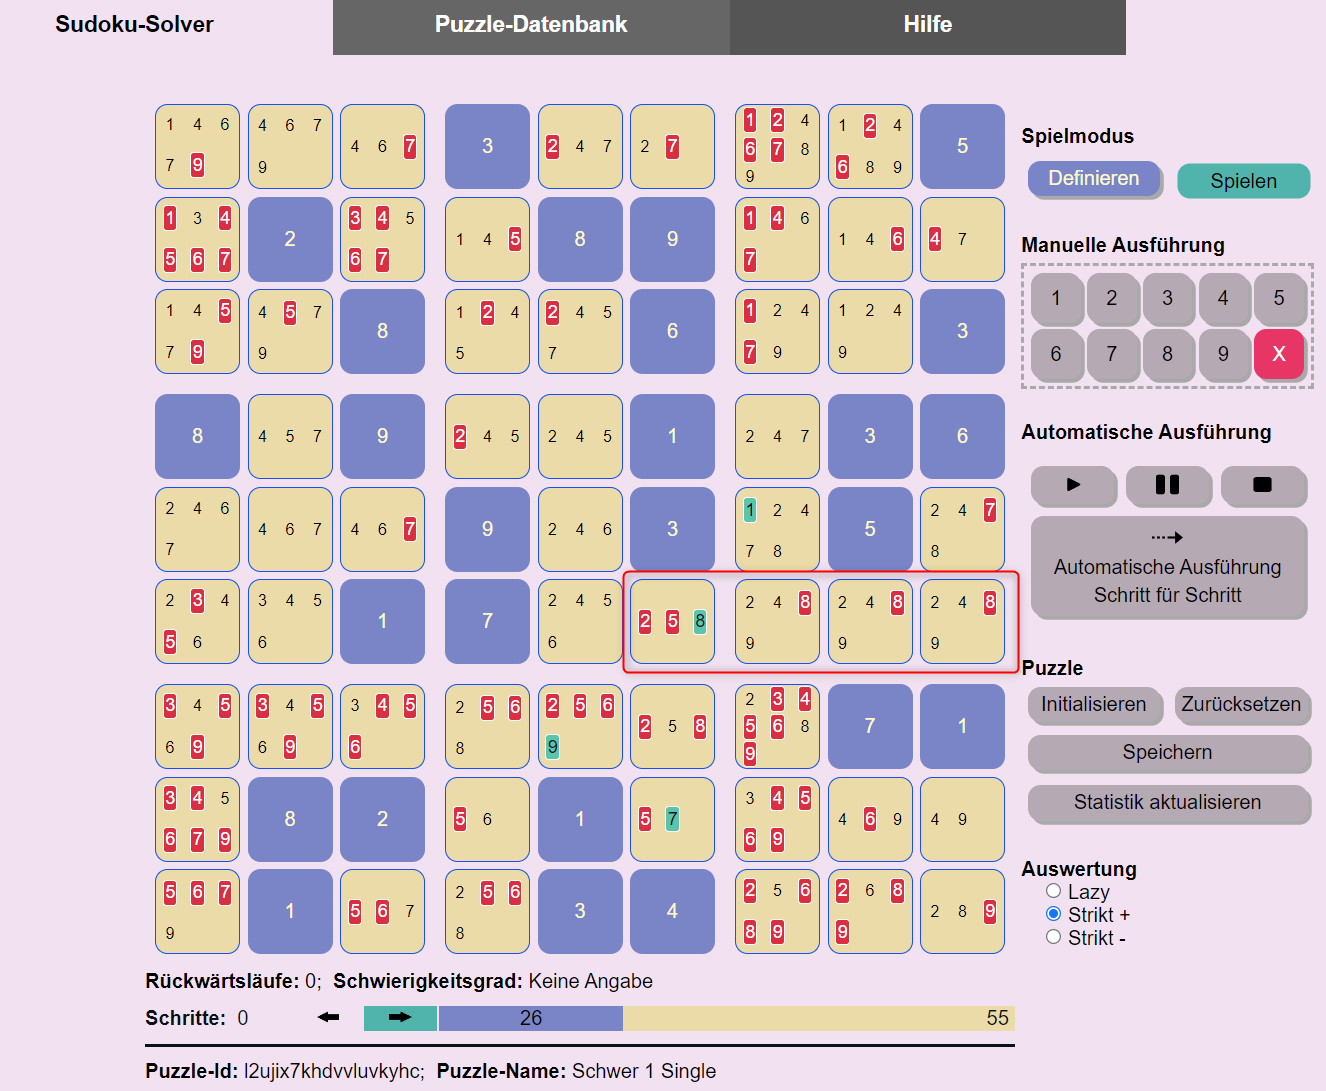
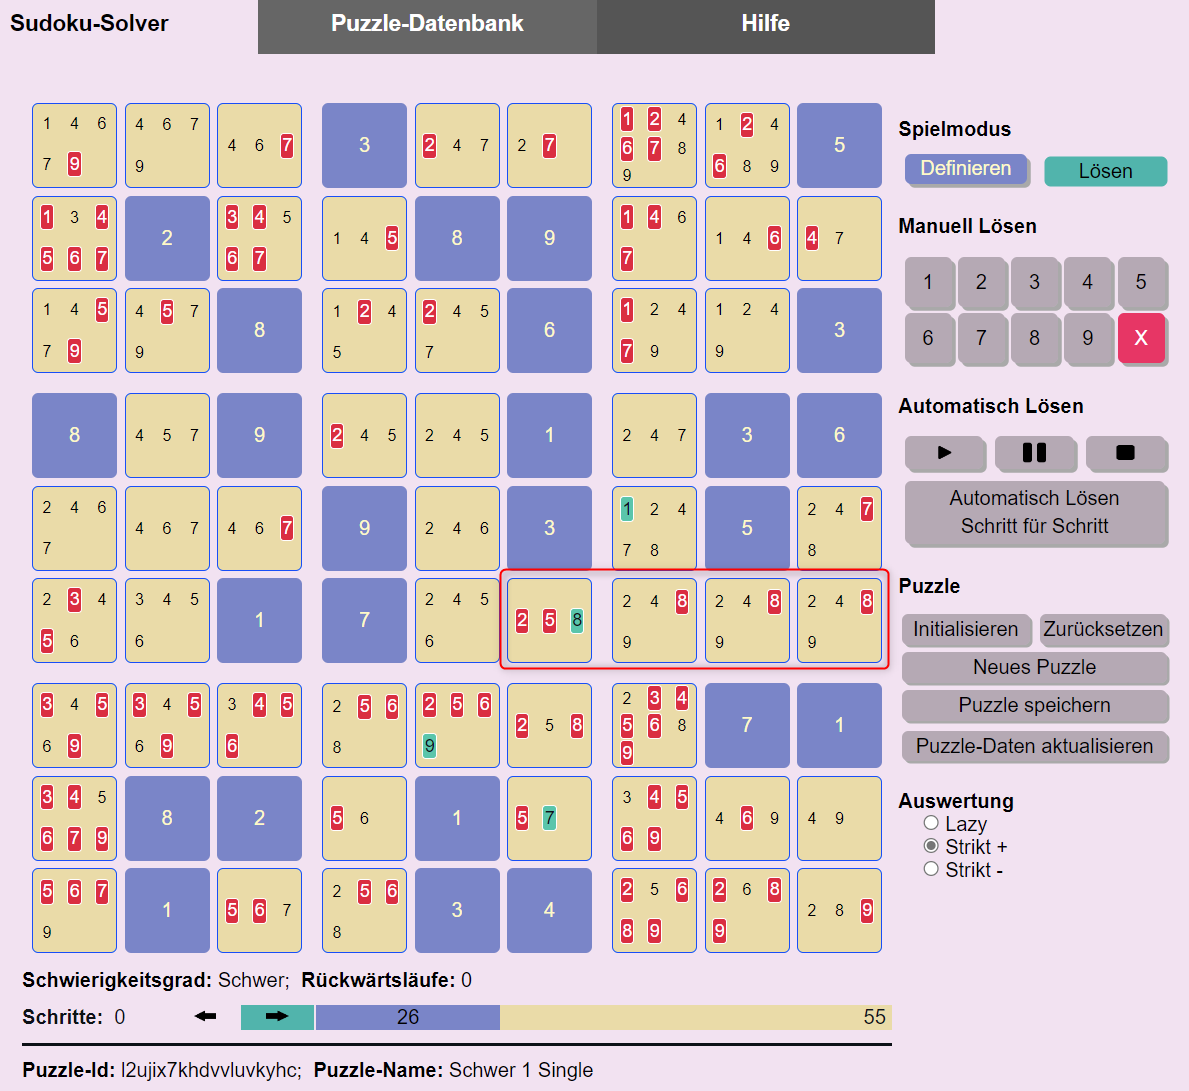
Hilfe aktualisiert

diff --git a/help.md b/help.md
@@ -4,9 +4,9 @@ layout: default
 
 # Sudoku-App
 
-Wer kennt das nicht? Beim Kaffeetrinken ein Sudoku lösen. Nach jahrelanger Erfahrung ist man spürbar besser geworden. Und dann kommt ein Sudoku, manchmal auch nur als leicht oder mittel klassifiziert, und man findet partout nicht die nächste Zelle mit einer eindeutigen Nummernbelegung. Anstatt den Kaffeetisch frustriert zu verlassen, kann man diese Sudoku-App und den darin enthaltenen Solver nutzen. Er löst jedes Sudoku in wenigen Minuten.
+Wer kennt das nicht? Beim Kaffeetrinken ein Sudoku lösen. Nach jahrelanger Erfahrung ist man spürbar besser geworden. Und dann kommt ein Puzzle, manchmal sogar nur als leicht klassifiziert, und man findet partout nicht die nächste Zelle mit einer eindeutigen Nummernbelegung. Anstatt den Kaffeetisch frustriert zu verlassen, kann man diese Sudoku-App und den darin enthaltenen Solver nutzen. Er löst jedes Sudoku in wenigen Minuten.
 
-Das tun andere Sudoku-Solver auch. Die Besonderheit dieses Solvers besteht darin, dass man ihm dabei zuschauen kann. Schritt für Schritt kann man beobachten und verstehen, wie der Solver zur Lösung des Sudokus gelangt. Alternativ kann man sich auch einfach nur einen nächsten möglichen Schritt zeigen lassen und dann von Hand weitermachen.
+Das tun andere Sudoku-Solver auch. Die Besonderheit dieses Solvers besteht darin, dass man ihm bei der Lösungssuche zuschauen kann. Schritt für Schritt kann man beobachten und verstehen, wie der Solver zur Lösung des Sudokus gelangt. Alternativ kann man sich auch einfach nur einen nächsten möglichen Schritt zeigen lassen und dann von Hand weitermachen.
 
 Zusammen mit der Lösung bestimmt der Solver den tatsächlichen Schwierigkeitsgrad des Sudokus. Sehr schwere Sudokus, Definition siehe unten, sind manuell kaum zu lösen. Sie sollten daher kein Grund für Frust sein. Konsequenz: Mit dieser Sudoku-App macht das Sudokulösen Spaß, auch wenn mal ein schweres Puzzle dabei ist.
 
@@ -14,11 +14,11 @@ Zusammen mit der Lösung bestimmt der Solver den tatsächlichen Schwierigkeitsgr
 
 ![Anwendungsansicht](./images/AppView.png)
 
-Die App besteht aus zwei Komponenten, dem Sudoku-Solver und der Puzzle-Datenbank. Mit Hilfe des Sudoku-Solvers kann man beliebige Sudoku-Aufgaben, sprich Sudoku-Puzzles, manuell oder automatisch lösen. In der Puzzle-Datenbank können Puzzles und mit ihren Eigenschaften, etwa dem Schwierigkeitsgrad, den benötigten Lösungsschritten und der Lösung selbst gespeichert werden.
+Die App besteht aus zwei Komponenten, dem Sudoku-Solver und der Puzzle-Datenbank. Mit Hilfe des Sudoku-Solvers kann man beliebige Sudoku-Aufgaben, sprich Sudoku-Puzzles, manuell oder automatisch lösen. In der Puzzle-Datenbank können Puzzles mit ihren Eigenschaften, etwa dem Schwierigkeitsgrad, den benötigten Lösungsschritten und der Lösung selbst gespeichert werden.
 
 ## Die Komponente Sudoku-Solver
 
-Der Solver besteht im Wesentlichen aus der 9 x 9 Sudoku-Matrix. In den Zellen der Matrix können Nummern von 1 .. 9 gesetzt werden. um den Spieler zu unterstützen, werden für Zellen, die noch keine gesetzte Nummer haben, die aktuell noch möglichen Nummern, die zulässigen Nummern, der Zelle angezeigt. Zusätzlich werden die Zellen der Matrix in 3 x 3 Gruppen unterteilt, 9 an der Zahl.
+Der Solver besteht im Wesentlichen aus der 9 x 9 Sudoku-Matrix. In den Zellen der Matrix können Nummern von 1 .. 9 gesetzt werden. Um den Spieler zu unterstützen, werden für Zellen, die noch keine gesetzte Nummer haben, die aktuell noch möglichen Nummern, die zulässigen Nummern, der Zelle angezeigt. Zusätzlich werden die Zellen der Matrix in 3 x 3 Gruppen unterteilt, 9 an der Zahl.
 
 ### Typischer Ablauf der Lösung eines Sudoku-Puzzles
 
@@ -44,8 +44,8 @@ Soll eine Nummern-Setzung zurückgenommen werden, muss die betroffene Zelle sele
 |<img src="./images/auto4option.png" width="160px"/>|**Automatisch gesetzte Nummer einer Auswahl:** Der Solver hat in dieser Zelle automatisch die Nummer 3 gesetzt. Und zwar in der 11. Setzung einer Nummer. Nach der ersten Option 6 hat er die zweite Option 3 gewählt. Jetzt sind alle Optionen dieser Zelle abgearbeitet.|
 |<img src="./images/optionCell.png" width="160px"/>|**Zulässige Nummern:** Für diese Zelle wurde noch keine Nummer gesetzt. Nur noch eine der Nummern 1, 3, 5 und 7 kann gewählt werden. Das sind die (noch) zulässigen Nummern der Zelle. Die nicht aufgeführten Nummern sind direkt unzulässig.|
 |<img src="./images/neccessary.png" width="160px"/>|**Notwendige Nummer:** Für die nebenstehende Zelle wurde noch keine Nummer gesetzt. Ohne direkten Konflikt sind noch die drei Nummern 2, 5 und 8 setzbar. Jedoch hat der Solver ermittelt, dass die Nummer 8 notwendig ist, damit das Sudoku lösbar bleibt. 8 ist eine notwendige Nummer für diese Zelle. Eine Nummer in einer Zelle ist notwendig, wenn die Nummer in ihrer Gruppe, Zeile oder Spalte einzig ist. D.h. sie kommt in der betreffenden Gruppe, Zeile oder Spalte nur genau einmal vor. In der obigen Beispielmatrix ist die 8 einzig in ihrer Gruppe. Bei der Bestimmung notwendiger Nummern spielen indirekt unzulässige Nummern (rot markiert) keine Rolle.|
-|<img src="./images/indirect.png" width="160px"/>|**Indirekt unzulässige Nummer:** Für die nebenstehende Zelle wurde noch keine Nummer gesetzt. Ohne direkten Konflikt sind noch die drei Nummern 1, 7 und 8 setzbar. Jedoch hat der Solver ermittelt, dass die 7 indirekt unzulässig ist. Wenn man sie setzen würde, würde der Solver einige Schritte später die Widersprüchlichkeit des Puzzles feststellen. Zur Definition der indirekten Unzulässigkeit siehe den entsprechenden Abschnitt dieser Hilfe.|
-|<img src="./images/direkterSingle.png" width="160px"/> <img src="./images/indirekterSingle.png" width="160px"/>| **Singles:** Eine Single-Nummer ist eine zulässige Nummer in einer Zelle, wenn es keine weiteren zulässigen Nummern in der Zelle gibt. Im nebenstehenden Beispiel sind die 7 und die 1 Singles. Die 7 bezeichnen wir auch als **direktes Single**, weil zu seiner Bestimmung nicht auf indirekt unzulässige Nummern zurückgegriffen werden muss. Im Gegensatz dazu ist die 1 ein **indirektes Single**. Die 1 ist ein Single, weil die rote 5 und 6 indirekt unzulässig sind.|
+|<img src="./images/indirect.png" width="160px"/>|**Indirekt unzulässige Nummer:** Für die nebenstehende Zelle wurde noch keine Nummer gesetzt. Ohne direkten Konflikt sind noch die drei Nummern 1, 7 und 8 setzbar. Jedoch hat der Solver ermittelt, dass die 7 indirekt unzulässig ist. Wenn man sie setzen würde, würde der Solver einige Schritte später die Widersprüchlichkeit des Puzzles feststellen. Zur Definition der indirekten Unzulässigkeit siehe den entsprechenden Abschnitt dieser Hilfe. Hinweis: **Direkt unzulässige Nummern** werden gar nicht angezeigt. In der nebenstehenden Zelle sind die Nummern 2, 3, 4, 5, 6 und 9 direkt unzulässig.|
+|<img src="./images/direkterSingle.png" width="160px"/> <img src="./images/indirekterSingle.png" width="160px"/>| **Singles:** Eine Single-Nummer ist eine zulässige Nummer in einer Zelle, wenn es keine weiteren zulässigen Nummern in der Zelle gibt. Im nebenstehenden Beispiel sind die 7 und die 1 Singles. Die 7 bezeichnen wir auch als **direktes Single**, weil zu seiner Bestimmung nicht auf indirekt unzulässige Nummern zurückgegriffen werden muss. Im Gegensatz dazu ist die 1 ein **indirektes Single**. Die 1 ist in dieser Zelle ein Single, weil die rote 5 und 6 indirekt unzulässig sind.|
 |<img src="./images/nochoice.png" width="160px"/>|**Widerspruch - Leere Option:** Für diese Zelle wurde noch keine Nummer gesetzt. Allerdings gibt es keine zulässige Nummer mehr, die noch gesetzt werden könnte. D.h. das Sudoku ist widersprüchlich. Wenn das Sudoku noch erfolgreich gelöst werden soll, müssen ein oder mehrere der bisherigen Nummernsetzungen zurückgenommen werden. Tritt während der automatischen Ausführung eine solche Zelle auf, schaltet der Solver in den Rückwärts-Modus um.|
 |<img src="./images/twoNeccessary.png" width="160px"/>|**Widerspruch - zwei notwendige Nummern:** Für diese Zelle wurde noch keine Nummer gesetzt. Ohne direkten Konflikt sind noch die Nummern 1, 2, 3, 6, 7 und 8 setzbar. Jedoch hat der Solver zwei verschiedene notwendige Nummern für diese Zelle ermittelt: 1 und 2. Das geht natürlich nicht. Es können in einer Zelle nicht zwei Nummern gleichzeitig gesetzt werden. D.h. das Sudoku ist widersprüchlich. Wenn das Sudoku noch erfolgreich gelöst werden soll, müssen ein oder mehrere der bisherigen Nummernsetzungen zurückgenommen werden. Tritt während der automatischen Ausführung eine solche Zelle auf, schaltet der Solver in den Rückwärts-Modus um.|
 |<img src="./images/conflct.png" width="160px"/>|**Widerspruch - Dieselbe Nummer mehrmals:** Für diese Zelle wurde die Nummer 8 gesetzt. Diese Nummer ist direkt unzulässig, weil in der Spalte, Reihe oder Zellgruppe dieser Zelle bereits eine 8 gesetzt ist. Das zweite oder dritte Auftreten der Nummer wird ebenfalls rot unterlegt angezeigt.|
@@ -55,20 +55,22 @@ Soll eine Nummern-Setzung zurückgenommen werden, muss die betroffene Zelle sele
 |Phase  |Bedeutung  |
 |---------|---------|
 |![Definieren](./images/define.png)|Die Taste **Definieren**. Das Drücken dieser Taste versetzt den Solver in die Definitionsphase. In dieser Phase überträgt man die zu lösende Sudoku-Aufgabe in den Solver. Nach der Initialisierung ist diese Taste automatisch gesetzt.|
-|![Spielen](./images/play.png)|Die Taste **Spielen**. Das Drücken dieser Taste versetzt den Solver in die Spielphase. Die Spielphase kann manuell oder automatisch durchgeführt werden. Wird die automatische Ausführung gestartet, wird diese Taste automatisch gesetzt.|
+|![Spielen](./images/play.png)|Die Taste **Lösen**. Das Drücken dieser Taste versetzt den Solver in die Lösungsphase. Die Lösungsphase kann manuell oder automatisch durchgeführt werden. Wird die automatische Ausführung gestartet, wird diese Taste automatisch gesetzt.|
+
+Hinweis: In der Definitionsphase gesetzte Nummern, dies sind blaue Nummern, können in der Lösungsphase nicht gelöscht werden. Falls Nummern der Definition gelöscht werden sollen, muss man zuvor die Definieren-Taste drücken.
 
 ### Manuelle Ausführung
 
-Die manuelle Ausführung wird in jedem Fall in der Definitionsphase genutzt. In der Spielphase ist sie optional. Die Spielphase kann alternativ auch automatisch durchgeführt werden.
+Die manuelle Ausführung wird in jedem Fall in der Definitionsphase genutzt. In der Lösungsphase ist sie optional. Die Lösungsphase kann alternativ auch automatisch durchgeführt werden.
 
 ### Automatische Ausführung
 
 |Taste  |Bedeutung  |
 |---------|---------|
-|![Spielen](./images/playButton.png)|Die **Play-Taste**. Der Solver startet den automatischen Lösungssuchprozess. Zusätzlich wird ein Timer gestartet, der in der eingestellten Geschwindigkeit die Ausführung automatischer Suchschritte anstößt.|
-|![Pause](./images/pauseButton.png)|Die **Pause-Taste**. Der Taktgeber der automatischen Ausführung wird angehalten, nicht jedoch der Suchprozess abgebrochen. Der Spieler kann jetzt weitere automatische Suchschritte mit der Step-Taste von Hand anstoßen. Oder er kann durch das erneute Drücken der Play-Taste die getaktete automatische Ausführung fortsetzen.|
+|![Spielen](./images/playButton.png)|Die **Start-Taste**. Der Solver startet den automatischen Lösungssuchprozess. Zusätzlich wird ein Timer gestartet, der in der eingestellten Geschwindigkeit die Ausführung automatischer Suchschritte anstößt.|
+|![Pause](./images/pauseButton.png)|Die **Pause-Taste**. Der Taktgeber der automatischen Ausführung wird angehalten, nicht jedoch der Suchprozess abgebrochen. Der Spieler kann jetzt weitere automatische Suchschritte mit der Schritt-Taste von Hand anstoßen. Oder er kann durch das erneute Drücken der Start-Taste die getaktete automatische Ausführung fortsetzen.|
 |![Stop](./images/stopButton.png)|Die **Stop-Taste**. Der Taktgeber der automatischen Ausführung wird angehalten und der aktuelle Suchprozess wird abgebrochen.|
-|![Step](./images/stepButton.png)|Die **Step-Taste**. Der Solver führt den nächsten automatischen Suchschritt aus. Falls noch nicht geschehen, startet er zuvor den Suchprozess überhaupt. Mit dieser Taste kann man den Solver Schritt für Schritt arbeiten lassen und so jeden einzelnen seiner Schritte verstehen.|
+|![Step](./images/stepButtonGroß.png)|Die **Schritt-Taste**. Der Solver führt den nächsten automatischen Suchschritt aus. Falls noch nicht geschehen, startet er zuvor den Suchprozess überhaupt. Mit dieser Taste kann man den Solver Schritt für Schritt arbeiten lassen und so jeden einzelnen seiner Schritte verstehen.|
 
 ### Initialisieren und Zurücksetzen
 
@@ -76,10 +78,11 @@ Die manuelle Ausführung wird in jedem Fall in der Definitionsphase genutzt. In 
 |---------|---------|
 |![Initialisieren](./images/initButton.png)|Die Taste **Initialisieren**. Durch das Drücken dieser Taste wird der Solver wird initialisiert. Danach ist die Sudoku-Tabelle leer.|
 |![Reset](./images/resetButton.png)|Die Taste **Zurücksetzen**. Mittels dieser Taste wird der Solver zurückgesetzt auf die Aufgabenstellung. D.h. alle in der Spielphase gesetzten Zellen werden gelöscht. Die Zellen der Definitionsphase bleiben erhalten.|
-|![Speichern](./images/storeButton.png)|Mittels dieser Taste kann das aktuelle Puzzle in der Datenbank gespeichert werden.|
-|![Statistik aktualisieren](./images/statistik.png)|Mittels dieser Taste kann für ein aus der Datenbank geladenes Puzzle das neue Ausführungsergebnis gespeichert werden.|
+|![Speichern](./images/puzzleneu.png)|Die Taste **Neues Puzzle**. Mittels dieser Taste kann ein neues Puzzle generiert werden. Der Generator generiert nur Puzzles mit den Schwierigkeitsgraden Leicht, Mittel und Schwer. Also keine sehr schweren Puzzles. Die generierten Puzzles können also ohne Backtracking gelöst werden.|
+|![Speichern](./images/storeButton.png)|Die Taste **Puzzle speichern**. Mittels dieser Taste kann das aktuelle Puzzle in der Datenbank gespeichert werden.|
+|![Statistik aktualisieren](./images/statistik.png)|Die Taste **Puzzle-Daten aktualisieren**. Mittels dieser Taste kann für ein aus der Datenbank geladenes Puzzle das neue Ausführungsergebnis gespeichert werden.|
 
-## Theoretische Grundlagen des Solvers
+## Basisbegriffe des Solvers
 
 ### Notwendige Nummern
 
@@ -88,14 +91,13 @@ Eine zulässige Nummer in einer Zelle ist notwendig, wenn die Nummer in ihrer Gr
 
 ### Indirekt unzulässige Nummern
 
-Indirekt unzulässige Nummern spielen eine wichtige Rolle bei der Bestimmung der nächsten zu setzenden Nummer mittels indirekter Singles. Ebenso bilden sie die Grundlage für die frühe Erkennung der Widersprüchlichkeit eines Puzzles. Dazu später mehr. Indirekt unzulässige Nummern werden rot angezeigt. Wann ist eine Nummer indirekt unzulässig? Der vorliegende Solver kennt drei unterschiedliche Gründe.
+Direkt unzulässige Nummern sind Nummern, die in einer Gruppe, Spalte oder Zeile bereits einmal existieren. In einer ungesetzten Zelle werden die direkt unzulässigen Nummern nicht mehr angezeigt. Anders dagegen Indirekt unzulässige Nummern. Indirekt unzulässige Nummern werden rot angezeigt. Wann ist eine Nummer indirekt unzulässig? Der vorliegende Solver kennt drei unterschiedliche Gründe.
 
 1. **Indirekt unzulässig wegen einer notwendigen Nummer:** Eine Nummer ist indirekt unzulässig wegen einer notwendigen Nummer, wenn sie in ihrer Spalte, Reihe oder Gruppe auch als notwendige Nummer auftritt. Im nachfolgenden Beispiel sind die roten Nummern 8 wegen der grünen 8 indirekt unzulässig. Die grüne 8 ist notwendig, weil sie in ihrer Spalte einzig ist, also in der Spalte kein weiteres mal zulässig ist.![Indirekt wegen notwendig](./images/indirektwgnotwendig.png)
 
-1. **Indirekt unzulässig wegen einer Single-Nummer:** Eine Nummer ist indirekt unzulässig wegen einer Single-Nummer, wenn sie in ihrer Spalte, Reihe oder Gruppe ein zweites mal auftritt.
+1. **Indirekt unzulässig wegen einer Single-Nummer:** Eine Nummer ist indirekt unzulässig wegen einer Single-Nummer, wenn sie in ihrer Spalte, Reihe oder Gruppe ein zweites mal auftreten würde.
 
-1. **Indirekt unzulässig wegen Pairing:** Eine Nummer ist indirekt unzulässig, wenn es in einer Gruppe, Zeile oder Spalte Paare gibt und Nummern dieser Paare zusätzlich in weiteren Zellen dieser Gruppe, Spalte oder Zeile auftauchen. Im nachfolgenden Beispiel ist das 4-6-Paar ein kritisches Paar. Das 4-6-Paar macht in seiner Gruppe alle 4 und 6 indirekt unzulässig. Der Grund: Das Paar bedeutet, dass die 4 und die 6 auf jeden Fall in einer der beiden Zellen des Paares gesetzt werden muss. Aktuell steht nur noch nicht fest, ob die 6 oder die 4 oben ist. Fest steht aber jetzt schon, dass in den übrigen Zellen der Gruppe keine 4 oder 6 mehr vorkommen können. Die 4 und 6 sind hier indirekt unzulässig. Diese Gruppendarstellung mit den gestrichelten Kanten zeigt der Solver nur im Lazy-Auswertungsmodus, wenn man eine Zelle mit indirekt unzulässigen Nummern selektiert. Der Solver findet die Zelle mit der 5 als eindeutiger Nummer. Nur die 5 kann noch gesetzt werden.
-![Indirekt unzulässig](./images/indirektWegenPairing.png)
+1. **Indirekt unzulässig wegen Pairing:** Eine Nummer ist indirekt unzulässig, wenn es in einer Gruppe, Zeile oder Spalte Paare gibt und Nummern dieser Paare zusätzlich in weiteren Zellen dieser Gruppe, Spalte oder Zeile auftauchen. Im nachfolgenden Beispiel ist das 4-6-Paar ein kritisches Paar. Das 4-6-Paar macht in seiner Gruppe alle 4 und 6 indirekt unzulässig. Der Grund: Das Paar bedeutet, dass die 4 und die 6 auf jeden Fall in einer der beiden Zellen des Paares gesetzt werden muss. Aktuell steht nur noch nicht fest, ob die 6 oder die 4 oben ist. Fest steht aber jetzt schon, dass in den übrigen Zellen der Gruppe keine 4 oder 6 mehr vorkommen können. Die 4 und 6 sind hier indirekt unzulässig. Diese Gruppendarstellung mit den gestrichelten Kanten zeigt der Solver nur im Lazy-Auswertungsmodus, wenn man eine Zelle mit indirekt unzulässigen Nummern selektiert. Der Solver findet die Zelle mit der 5 als eindeutiger Nummer. ![Indirekt unzulässig](./images/indirektWegenPairing.png)
 
 ### Auswertungsmethoden
 
@@ -103,11 +105,11 @@ Die beiden Beispielmatrizen im vorigen Abschnitt zeigen den Solver in unterschie
 
 1. **Lazy Auswertung:** Diese Auswertungsmethode praktiziert eine verzögerte Auswertung. Die Auswertung erfolgt nur soweit, bis die nächste notwendige oder direkte oder indirekte Single-Nummer bestimmt ist. Diese Nummer wird dann gesetzt.
 
-1. **Strikte Auswertung:** Diese  Auswertungsmethode führt eine vollständige Auswertung durch: Alle aktuell indirekt unzulässigen Nummern, alle notwendigen Nummern, alle direkten Singles und indirekten Singles werden ermittelt. Danach können diese Nummern nach und nach gesetzt werden.
+1. **Strikte Auswertung:** Diese  Auswertungsmethode führt eine vollständige Auswertung durch: Alle aktuell indirekt unzulässigen Nummern, alle notwendigen Nummern, alle direkten Singles und indirekten Singles werden ermittelt. Danach können diese Nummern Schritt für Schritt gesetzt werden.
 
 Die strikte Auswertung kann in zwei Varianten angezeigt werden:
 
-1. **Strikt +**: Alle errechneten indirekt unzulässigen Nummern werden angezeigt.
+1. **Strikt +**: Alle errechneten indirekt unzulässigen Nummern werden angezeigt. Bei sehr vielen indirekt unzulässigen Nummern wird das schnell sehr unübersichtlich.
 
 1. **Strikt -** : Die errechneten indirekten unzulässigen Nummern werden ausgeblendet. Das nachfolgende Bild zeigt die vorige Matrix im Strikt-Minus-Modus. ![Strikt Minus](./images/striktminus.png)
 
@@ -128,7 +130,7 @@ Es können mehrere dieser Bedingungen gleichzeitig vorliegen.
 
 ![Keine](./images/nochoice.png) ![ZweiNotwendige](./images/twoNeccessary.png) ![Konflikt](./images/conflct.png)
 
-Widerspruchsvolle Zellen hatten wir oben schon kennengelernt. Es sind dies Zellen mit leerer Option, Zellen mit zwei notwendigen Nummern gleichzeitig und Zellen, die eine Nummer mehrfach setzen, also so setzen, dass eine Nummer in einer Gruppe, Zeile oder Spalte mehrfach auftritt.
+Widerspruchsvolle Zellen hatten wir oben schon kennengelernt. Es sind dies Zellen mit leerer Option, Zellen mit zwei notwendigen Nummern gleichzeitig und Zellen, die mit einer direkt unzulässigen Nummer belegt sind.
 
 ### Widerspruchsvolle Gruppen
 
@@ -180,7 +182,7 @@ Der Solver sucht gemäß der folgenden Priorität die nächste offene Zelle und 
 1. **Zelle mit notwendiger Nummer:** Der Solver wählt in der Matrix zunächst eine offene Zelle, die in der Menge ihrer zulässigen Nummern eine notwendige Nummer hat. Diese notwendige Nummer wird dann in der Zelle gesetzt.
 1. **Zelle mit direkter Single**: Wenn es keine Zelle mit notwendiger Nummer mehr gibt, wählt der Solver eine Zelle mit nur genau einer zulässigen Nummer. Er setzt diese Nummer.
 1. **Zelle mit indirekter Single**: Wenn es keine Zelle mit notwendiger Nummer oder mit direkter Single mehr gibt wählt der Solver eine Zelle mit indirekter Single.
-1. **Zelle mit minimaler Optionenmenge**. Sind keine Zellen mit notwendigen Nummern oder Singles mehr verfügbar, wählt der Solver eine Zelle mit minimaler Anzahl von zulässigen Nummern. Die sogenannten Optionen der Zelle. Meist besteht die minimale Optionenmenge aus zwei Optionen. Ist aber nicht eindeutig, d.h. es gibt in der Regel mehrere Zellen mit zwei Optionen. In dieser Menge wählt der Solver zufällig eine Zelle und setzt eine der beiden Optionennummern. Im Laufe der weiteren Suche kann sich herausstellen, dass diese Nummer keine Lösung des Sudokus erlaubt. Der Back-Tracking-Prozess kehrt im weiteren Verlauf zu dieser Zelle zurück und versucht dann mit der Wahl einer anderen Nummer aus der Optionenmenge die Lösung zu finden.
+1. **Zelle mit minimaler Optionenmenge**. Sind keine Zellen mit notwendigen Nummern oder Singles mehr verfügbar, wählt der Solver eine Zelle mit minimaler Anzahl von zulässigen Nummern. Die sogenannten **Optionen der Zelle**. Meist besteht die minimale Optionenmenge aus zwei Optionen. Ist aber nicht eindeutig, d.h. es gibt in der Regel mehrere Zellen mit zwei Optionen. In dieser Menge wählt der Solver zufällig eine Zelle und setzt eine der beiden Optionennummern. Im Laufe der weiteren Suche kann sich herausstellen, dass diese Nummer keine Lösung des Sudokus erlaubt. Der Back-Tracking-Prozess kehrt im weiteren Verlauf zu dieser Zelle zurück und versucht dann mit der Wahl einer anderen Nummer aus der Optionenmenge die Lösung zu finden.
 
 ### Wie prüft der Solver die neu gesetzte Nummer?
 
@@ -224,6 +226,7 @@ Beim Abspeichern kann dem Puzzle ein Name gegeben werden. Automatisch erhält es
 |Attribut  |Bedeutung  |
 |---------|---------|
 |Puzzle-ID|Die eindeutige ID des gespeicherten Puzzles.|
+|Name|Name des gespeicherten Puzzles. Muss nicht eindeutig sein.|
 |Definierte Zellen|Die Zahl der der definierten Zellen des Puzzles.|
 |Status|Der Spielstatus des gespeicherten Puzzles.|
 |Schritte (lazy)|Die Anzahl der Schritte, die der Solver brauchte, um das Puzzle im Auswertungsmodus Lazy zu lösen.|
@@ -232,14 +235,21 @@ Beim Abspeichern kann dem Puzzle ein Name gegeben werden. Automatisch erhält es
 |#Rückwärts|Die Anzahl der Rückwärtsläufe, die der Solver durchgeführt hat, um das Puzzle zu lösen.|
 |Datum|Datum, an dem das Puzzle zuletzt gespeichert wurde.
 
+### Gespeicherte Puzzles sortieren
 Die Puzzles der Datenbank können sortiert werden nach jeder Spalte. Dazu einfach den Spaltenkopf klicken. Wiederholtes Klicken wechselt zwischen der aufsteigenden und der absteigenden Sortierung.
 
-Gespeicherte Puzzles können auch wieder gelöscht werden. Durch Drücken der Lade-Taste wird das selektierte Puzzle in den Sudoku-Solver geladen. Mit den Pfeiltasten kann in der Tabelle vorwärts und rückwärts navigiert werden. Durch Klicken auf eine Zeile der Tabelle kann ein Puzzle direkt selektiert werden.
+### Navigieren
+Mit den Pfeiltasten kann in der Tabelle vorwärts und rückwärts navigiert werden. Durch Klicken auf eine Zeile der Tabelle kann ein Puzzle direkt selektiert werden.
 
+### Puzzle laden
+Durch Drücken der Lade-Taste wird das selektierte Puzzle in den Sudoku-Solver geladen.
+### Puzzle löschen
+Gespeicherte Puzzles können auch wieder gelöscht werden.
+
+### Puzzle drucken
+Mittels der Taste Drucken kann das aktuell selektierte Puzzle gedruckt werden. Dabei wird nur die Aufgabe, nicht aber die Lösung ausgedruckt. Dies ist besonders dann nützlich wenn man ein generiertes Puzzle von Hand auf dem Papier lösen möchte.
 ## Die Smartphone Version
 
 Auf dem Smartphone ist der Solver als Web-Anwendung verfügbar. Also in einem Browser die URL eingeben. Die Funktionalität ist bis auf die Puzzle-Datenbank identisch.
 
 In der Smartphone-Version kann das aktuelle Puzzle gespeichert werden. Dabei wird ein eventuell schon vorher gespeichertes Puzzle überschrieben. Es kann also nur ein Puzzle gespeichert werden. Dies ermöglicht die Speicherung eines aktuellen Puzzles, um es vielleicht später analysieren zu können.
-
-![Smartphone](./images/smartphoneVersion.png)
